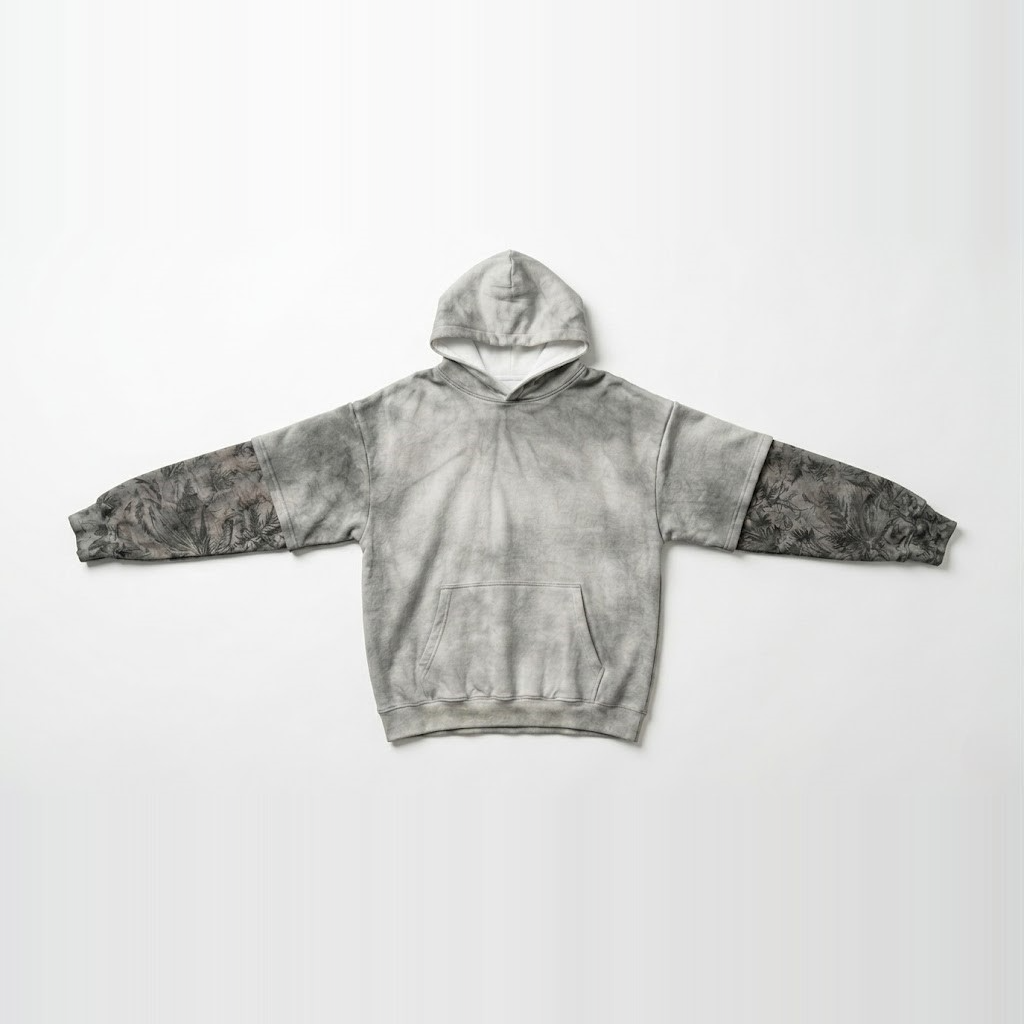
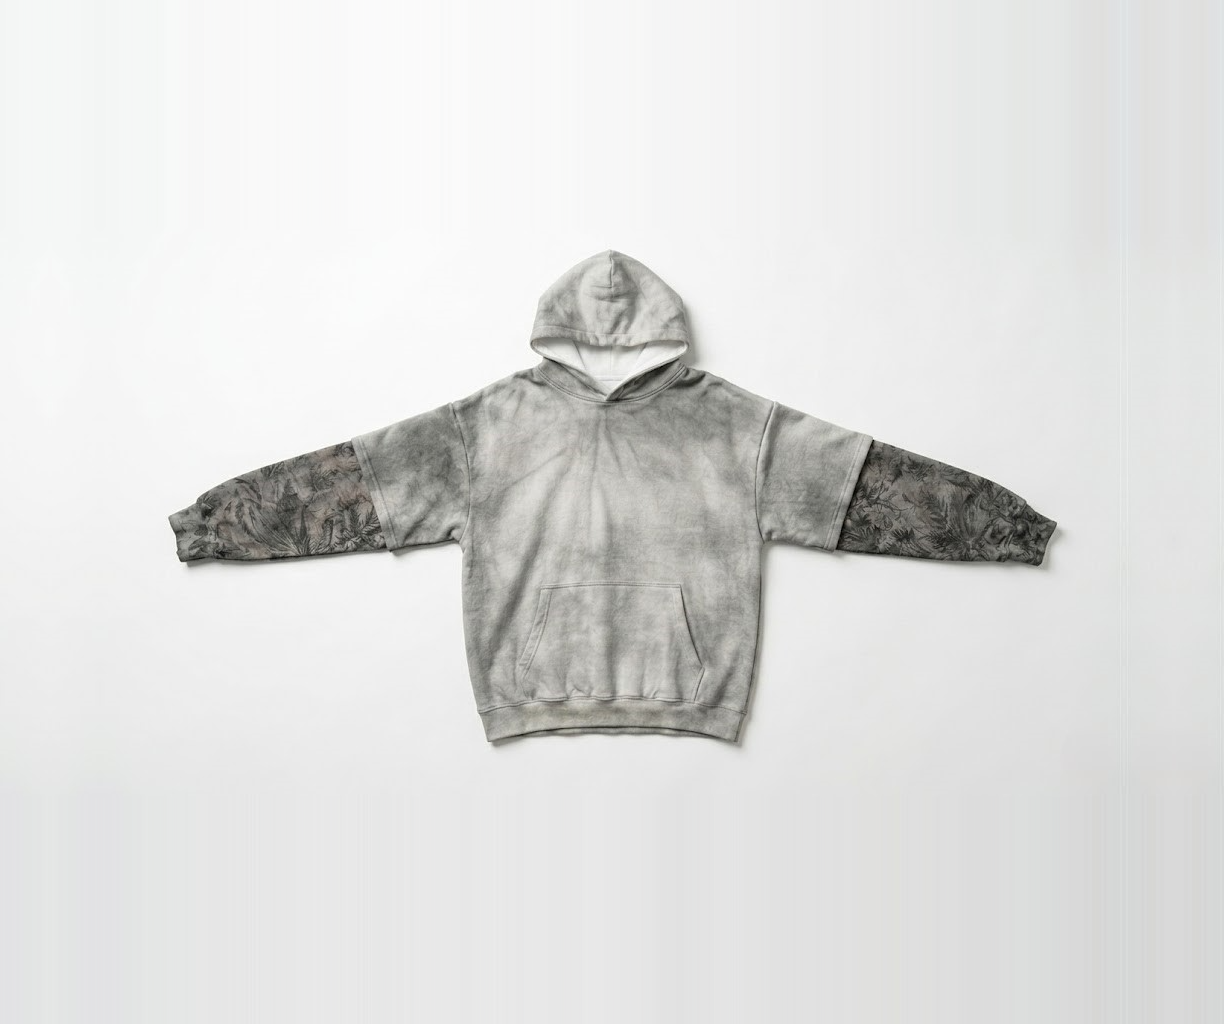
Update image optimization and layout adjustments
- Enabled unoptimized image handling in development mode within the Next.js configuration for improved performance during development.
- Adjusted the scaling and positioning of an image in the How It Works section for better visual alignment.
- Updated two image files in the public directory to enhance the gallery display.

Changed region(s): [[0.0625, 0.25, 0.9375, 0.75]]

diff --git a/components/how-it-works-hero.tsx b/components/how-it-works-hero.tsx
@@ -165,7 +165,7 @@ function GeneratedMockVisual() {
         alt="AI generated polished product output"
         fill
         sizes="(max-width: 1024px) 100vw, 900px"
-        className="object-contain object-center scale-150 -translate-y-[-8%]"
+        className="object-contain object-center scale-130 -translate-y-[-3%]"
       />
     </div>
   )
